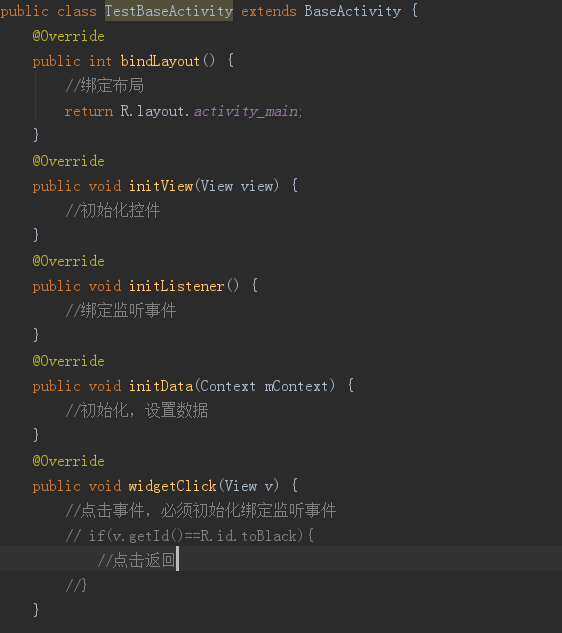
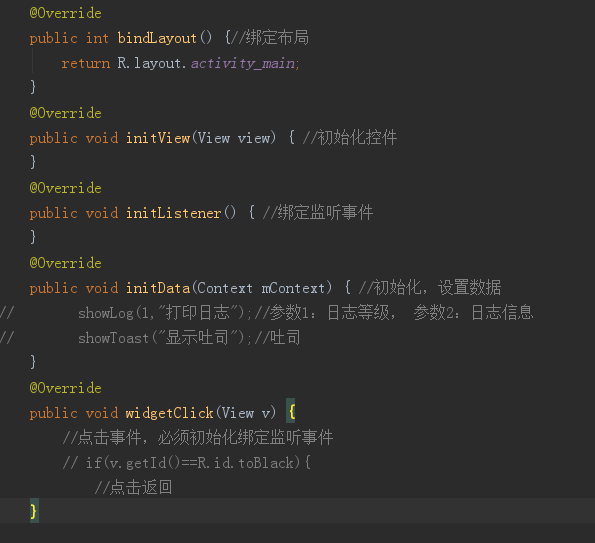
第四次提交，添加base类的注释，说明

diff --git a/app/src/main/java/f/b/TestBaseNetActivity.java b/app/src/main/java/f/b/TestBaseNetActivity.java
@@ -1,0 +1,57 @@
+package f.b;
+
+import android.view.View;
+
+import java.util.HashMap;
+import java.util.Map;
+
+import m.b.base.BaseNetActivity;
+import m.b.bean.Params;
+
+/**
+ * @author: FYL
+ * @time: 2018/9/3
+ * @email:347933430@qq.com
+ * @describe: f.b
+ */
+public class TestBaseNetActivity extends BaseNetActivity {
+    @Override
+    public Params setParams() {
+        //初始化网络请求参数
+        Map<String,String> map = new HashMap<String, String>();
+        map.put("type","1");
+        Params params = new Params("https://...",null);
+        //params.setClazz(String.class);//要解析的数据类型，也可以是实体类
+        //params.setList(true);//解析的结果是否是List数据集合类型，默认false
+        //params.setLoad(true);//是否是加载更多请求，默认false
+        //params.setRefresh(true);//是否是刷新请求,默认false
+        //注意：如果不需要解析，params.setClazz(null)即可，
+        // 最后返回的数据为String，JSON原始数据，需要自己去解析
+        return params;
+    }
+    @Override
+    public void onNetResult(Params params) {
+        //网络请求结果回调，结果值在params.getObj(),
+    }
+    @Override
+    public void onNetError(String error) {
+        //网络请求错误回调，错误信息：error
+    }
+    @Override
+    public int bindLayout() {
+        //绑定布局
+        return 0;
+    }
+    @Override
+    public void initView(View view) {
+        //初始化控件
+    }
+    @Override
+    public void initListener() {
+        //绑定监听事件
+    }
+    @Override
+    public void widgetClick(View v) {
+        //点击事件的逻辑处理
+    }
+}

diff --git a/app/src/main/java/f/b/TestBaseNetFragment.java b/app/src/main/java/f/b/TestBaseNetFragment.java
@@ -1,0 +1,52 @@
+package f.b;
+
+import android.view.View;
+
+import java.util.HashMap;
+import java.util.Map;
+
+import m.b.base.BaseNetFragment;
+import m.b.bean.Params;
+
+/**
+ * @author: FYL
+ * @time: 2018/9/3
+ * @email:347933430@qq.com
+ * @describe: f.b
+ */
+public class TestBaseNetFragment extends BaseNetFragment {
+    @Override
+    public Params setParams() {
+        //初始化网络请求参数
+        Map<String,String> map = new HashMap<String, String>();
+        map.put("type","1");
+        Params params = new Params("https://...",null);
+        //params.setClazz(String.class);//要解析的数据类型，也可以是实体类
+        //params.setList(true);//解析的结果是否是List数据集合类型，默认false
+        //params.setLoad(true);//是否是加载更多请求，默认false
+        //params.setRefresh(true);//是否是刷新请求,默认false
+        //注意：如果不需要解析，params.setClazz(null)即可，
+        // 最后返回的数据为String，JSON原始数据，需要自己去解析
+        return params;
+    }
+    @Override
+    public void onNetResult(Params params) {
+        //网络请求结果回调，结果值在params.getObj(),
+    }
+    @Override
+    public void onNetError(String error) {
+        //网络请求错误回调，错误信息：error
+    }
+    //以下的几个方法就是BaseFragment里的几个方法，这里就不多介绍了.
+
+    @Override
+    public int bindLayout() {
+        return 0;
+    }
+    @Override
+    protected void initView() {
+    }
+    @Override
+    public void widgetClick(View v) {
+    }
+}

diff --git a/app/src/main/java/f/b/TestBaseActivity.java b/app/src/main/java/f/b/TestBaseActivity.java
@@ -13,28 +13,25 @@ import m.b.base.BaseActivity;
  */
 public class TestBaseActivity extends BaseActivity {
     @Override
-    public int bindLayout() {
-        //绑定布局
+    public int bindLayout() {//绑定布局
         return R.layout.activity_main;
     }
     @Override
-    public void initView(View view) {
-        //初始化控件
+    public void initView(View view) { //初始化控件
     }
     @Override
-    public void initListener() {
-        //绑定监听事件
+    public void initListener() { //绑定监听事件
     }
     @Override
-    public void initData(Context mContext) {
-        //初始化，设置数据
+    public void initData(Context mContext) { //初始化，设置数据
+//        showLog(1,"打印日志");//参数1：日志等级， 参数2：日志信息
+//        showToast("显示吐司");//吐司
     }
     @Override
     public void widgetClick(View v) {
         //点击事件，必须初始化绑定监听事件
         // if(v.getId()==R.id.toBlack){
             //点击返回
-        //}
     }
 
 }

diff --git a/app/src/main/java/f/b/TestBaseLazyLoadFragment.java b/app/src/main/java/f/b/TestBaseLazyLoadFragment.java
@@ -1,0 +1,42 @@
+package f.b;
+
+import android.view.View;
+
+import m.b.base.BaseLazyLoadFragment;
+
+/**
+ * @author: FYL
+ * @time: 2018/9/3
+ * @email:347933430@qq.com
+ * @describe: f.b
+ */
+public class TestBaseLazyLoadFragment extends BaseLazyLoadFragment {
+
+    /** 标志位，标志已经初始化完成 */
+    private boolean isPrepared;
+    /** 是否已被加载过一次，第二次就不再去请求数据了 */
+    private boolean mHasLoadedOnce;
+    @Override
+    public int bindLayout() {//绑定布局
+        return 0;
+    }
+    @Override
+    protected void initView() {
+        //初始化控件
+        isPrepared=true;
+    }
+    @Override
+    protected void initData() {
+        if(!isVisible || !isPrepared || mHasLoadedOnce){
+            return;
+        }
+        mHasLoadedOnce = true;//标识已经加载过
+        //绑定数据
+    }
+
+    @Override
+    public void widgetClick(View v) {
+        //点击事件的逻辑处理
+    }
+
+}

diff --git a/app/src/main/java/f/b/TestBaseFragmentActivity.java b/app/src/main/java/f/b/TestBaseFragmentActivity.java
@@ -1,0 +1,36 @@
+package f.b;
+
+import android.content.Context;
+import android.view.View;
+
+import m.b.base.BaseFragmentActivity;
+
+/**
+ * @author: FYL
+ * @time: 2018/9/3
+ * @email:347933430@qq.com
+ * @describe: f.b
+ */
+public class TestBaseFragmentActivity extends BaseFragmentActivity {
+    @Override
+    public int bindLayout() {
+        //绑定布局
+        return 0;
+    }
+    @Override
+    public void initView(View view) {
+        //初始化控件
+    }
+    @Override
+    public void initListener() {
+        //绑定监听
+    }
+    @Override
+    public void initData(Context mContext) {
+        //绑定数据
+    }
+    @Override
+    public void widgetClick(View v) {
+        //监听逻辑处理
+    }
+}

diff --git a/app/src/main/java/f/b/TestBaseFragment.java b/app/src/main/java/f/b/TestBaseFragment.java
@@ -1,0 +1,33 @@
+package f.b;
+
+import android.view.View;
+
+import m.b.base.BaseFragment;
+
+/**
+ * @author: FYL
+ * @time: 2018/9/3
+ * @email:347933430@qq.com
+ * @describe: f.b
+ */
+public class TestBaseFragment extends BaseFragment {
+    @Override
+    public int bindLayout() {
+        //绑定布局
+        return 0;
+    }
+    @Override
+    protected void initView() {
+        //初始化控件，绑定监听
+    }
+    @Override
+    protected void initData() {
+        //绑定数据
+//      showLog(3,"打印日志");//参数1：日志等级， 参数2：日志信息
+//      showToast("显示吐司");//吐司
+    }
+    @Override
+    public void widgetClick(View v) {
+        //监听逻辑处理
+    }
+}

diff --git a/app/src/main/java/f/b/TestApplication.java b/app/src/main/java/f/b/TestApplication.java
@@ -1,0 +1,23 @@
+package f.b;
+
+import m.b.Config;
+import m.b.base.BaseAppLication;
+
+/**
+ * @author: FYL
+ * @time: 2018/9/3
+ * @email:347933430@qq.com
+ * @describe:
+ */
+public class TestApplication extends BaseAppLication {
+    /**
+     * 如果有使用BaseNetActivity,带有Net的Base封装，
+     * 或者有使用Xutils3的，必须继承BaseAppLication,否则会出现应用崩溃现象
+     */
+    @Override
+    protected void init() {
+        //初始化自己需要的逻辑
+        Config.setBaiDuStatistics(false);//是否需要百度统计，默认false
+        Config.setLog(true);//是否需要打印出日志，默认true
+    }
+}
